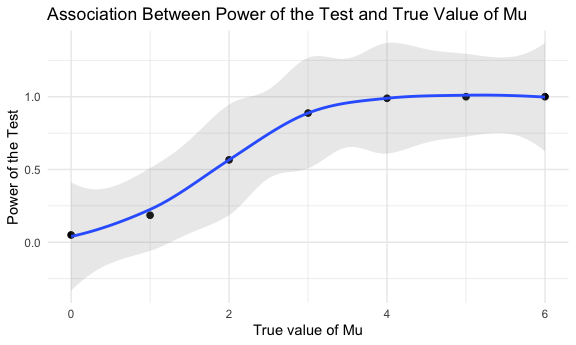
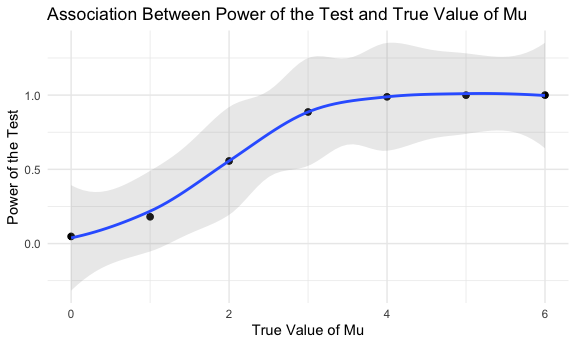
Made a plot showing the average estimate of μ̂  on the y axis and the true value of μ on the x axis

diff --git a/p8105_hw5_jl6321.md b/p8105_hw5_jl6321.md
@@ -167,7 +167,7 @@ mu_til_six %>%
   ggplot(aes(x = mu, y = power)) + 
   geom_point(size = 2) + 
   geom_smooth(alpha = 0.2) + 
-  labs(x = "True value of Mu", 
+  labs(x = "True Value of Mu", 
        y = "Power of the Test", 
        title = "Association Between Power of the Test and True Value of Mu")
 ```
@@ -175,3 +175,34 @@ mu_til_six %>%
     ## `geom_smooth()` using method = 'loess' and formula 'y ~ x'
 
 <img src="p8105_hw5_jl6321_files/figure-gfm/unnamed-chunk-9-1.png" width="90%" />
+
+According to the plot, it can be seen that as the true value of mu
+increases, the power of the test increases as well.
+
+Make a plot showing the average estimate of μ̂ on the y axis and the true
+value of μ on the x axis:
+
+``` r
+second_plot_data = 
+  mu_til_six %>% 
+  mutate(result = case_when(p.value < 0.05 ~ "reject", 
+                            p.value >= .05 ~ "fail to reject")) %>% 
+  filter(result == "reject") %>% 
+  group_by(mu) 
+
+second_plot = 
+  second_plot_data %>% 
+  summarize(mean_estimate = mean(estimate)) %>% 
+  ggplot(aes(x = mu, y = mean_estimate)) + 
+  geom_point(size = 2) + 
+  geom_smooth(alpha = 0.2) + 
+  labs(x = "True Value of Mu", 
+       y = "Mean Estimate of Mu in Samples With Null Rejected", 
+       title = "Samples With Null Rejected") 
+
+second_plot
+```
+
+    ## `geom_smooth()` using method = 'loess' and formula 'y ~ x'
+
+<img src="p8105_hw5_jl6321_files/figure-gfm/unnamed-chunk-10-1.png" width="90%" />
